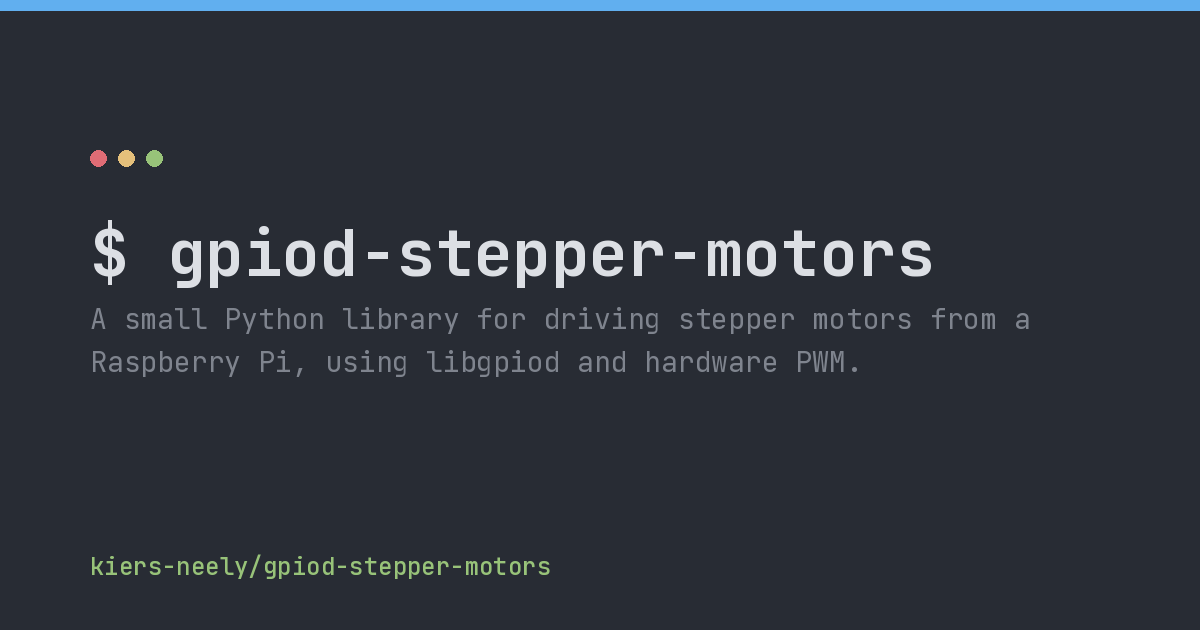
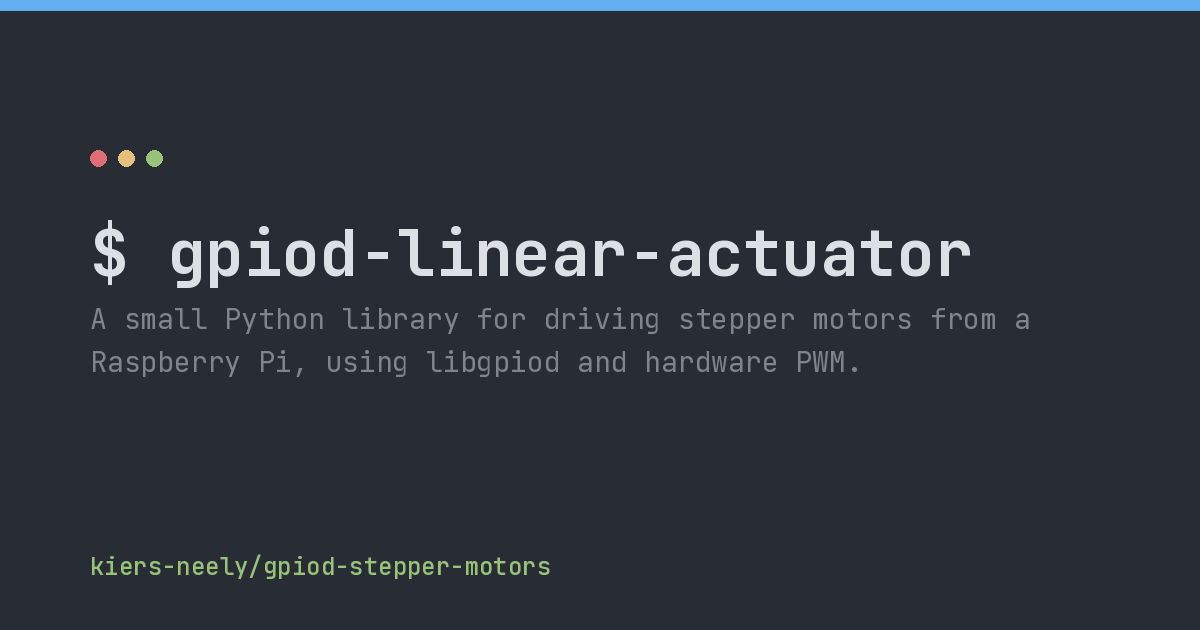
rename project to gpiod-linear-actuator
Renames the distribution name (pyproject.toml), the importable package
(src/gpiod_stepper_motors -> src/gpiod_linear_actuator), and every
import/reference across tests, examples, scripts, docs, and the docs
workflow. Regenerated uv.lock and the social preview card to match.

The GitHub repo itself stays at kiers-neely/gpiod-stepper-motors for
now (not renamed), so the docs site URL and social-preview OG image
URL still point there intentionally.

Changed region(s): [[0.3083, 0.3619, 0.8325, 0.4524]]

diff --git a/tests/test_stepper.py b/tests/test_stepper.py
@@ -9,9 +9,9 @@ from gpiod.line import Direction as LineDirection
 from gpiod.line import Value
 from pydantic import ValidationError
 
-from gpiod_stepper_motors.protocol import GPIOValue, InputLabel, OutputLabel
-from gpiod_stepper_motors.pwm import HardwarePWM, PWMConfig, PWMRampConfig
-from gpiod_stepper_motors.stepper import (
+from gpiod_linear_actuator.protocol import GPIOValue, InputLabel, OutputLabel
+from gpiod_linear_actuator.pwm import HardwarePWM, PWMConfig, PWMRampConfig
+from gpiod_linear_actuator.stepper import (
     GPIOConfig,
     GPIOStepperDriver,
     InputLine,
@@ -39,7 +39,7 @@ class StepperMotorTests(unittest.TestCase):
         self.addCleanup(self.request_patcher.stop)
         self.request = self.request_lines.return_value
 
-    def make_request(self, chip="/dev/gpiochip0", consumer="gpiod-stepper-motors"):
+    def make_request(self, chip="/dev/gpiochip0", consumer="gpiod-linear-actuator"):
         config: dict[Iterable[int | str] | int | str, gpiod.LineSettings | None] = {
             self.STEP_PIN: gpiod.LineSettings(
                 direction=LineDirection.OUTPUT,
@@ -98,11 +98,11 @@ class PWMRampConfigTests(unittest.TestCase):
 
 class HardwarePWMTests(unittest.TestCase):
     def setUp(self):
-        self.pwm_patcher = patch("gpiod_stepper_motors.pwm.PWM")
+        self.pwm_patcher = patch("gpiod_linear_actuator.pwm.PWM")
         self.pwm_cls = self.pwm_patcher.start()
         self.addCleanup(self.pwm_patcher.stop)
         self.pwm = self.pwm_cls.return_value
-        self.sleep_patcher = patch("gpiod_stepper_motors.pwm.time.sleep")
+        self.sleep_patcher = patch("gpiod_linear_actuator.pwm.time.sleep")
         self.sleep = self.sleep_patcher.start()
         self.addCleanup(self.sleep_patcher.stop)
 
@@ -325,7 +325,7 @@ class HardwarePWMTests(unittest.TestCase):
 
 class GPIODeviceTests(unittest.TestCase):
     def setUp(self):
-        self.chip_patcher = patch("gpiod_stepper_motors.stepper.Chip")
+        self.chip_patcher = patch("gpiod_linear_actuator.stepper.Chip")
         self.chip_cls = self.chip_patcher.start()
         self.addCleanup(self.chip_patcher.stop)
         self.chip = self.chip_cls.return_value.__enter__.return_value
@@ -447,7 +447,7 @@ class GPIODeviceTests(unittest.TestCase):
 
 class GPIODeviceEdgeReaderTests(unittest.TestCase):
     def setUp(self):
-        self.chip_patcher = patch("gpiod_stepper_motors.stepper.Chip")
+        self.chip_patcher = patch("gpiod_linear_actuator.stepper.Chip")
         self.chip_cls = self.chip_patcher.start()
         self.addCleanup(self.chip_patcher.stop)
         self.chip = self.chip_cls.return_value.__enter__.return_value
@@ -573,7 +573,7 @@ class GPIODeviceEdgeReaderTests(unittest.TestCase):
 
 class GPIOStepperTests(unittest.TestCase):
     def setUp(self):
-        self.pwm_patcher = patch("gpiod_stepper_motors.pwm.PWM")
+        self.pwm_patcher = patch("gpiod_linear_actuator.pwm.PWM")
         self.pwm_patcher.start()
         self.addCleanup(self.pwm_patcher.stop)
 
@@ -599,10 +599,10 @@ class GPIOStepperTests(unittest.TestCase):
 
 class LinearActuatorControlTests(unittest.IsolatedAsyncioTestCase):
     def setUp(self):
-        self.pwm_patcher = patch("gpiod_stepper_motors.pwm.PWM")
+        self.pwm_patcher = patch("gpiod_linear_actuator.pwm.PWM")
         self.pwm_cls = self.pwm_patcher.start()
         self.addCleanup(self.pwm_patcher.stop)
-        self.sleep_patcher = patch("gpiod_stepper_motors.pwm.time.sleep")
+        self.sleep_patcher = patch("gpiod_linear_actuator.pwm.time.sleep")
         self.sleep_patcher.start()
         self.addCleanup(self.sleep_patcher.stop)
 

diff --git a/examples/linear_actuator_demo.py b/examples/linear_actuator_demo.py
@@ -2,13 +2,13 @@ import asyncio
 from unittest.mock import MagicMock, patch
 
 from gpiod.line import Value
-from gpiod_stepper_motors import load_gpio_config
-from gpiod_stepper_motors.protocol import InputLabel
-from gpiod_stepper_motors.stepper import LinearActuatorControl, LinearActuatorState
+from gpiod_linear_actuator import load_gpio_config
+from gpiod_linear_actuator.protocol import InputLabel
+from gpiod_linear_actuator.stepper import LinearActuatorControl, LinearActuatorState
 
 
 async def main():
-    with patch("gpiod_stepper_motors.pwm.PWM"):  # no real PWM hardware needed
+    with patch("gpiod_linear_actuator.pwm.PWM"):  # no real PWM hardware needed
         config = load_gpio_config("examples/gpio_config.yaml")
 
         fake_gpio = MagicMock()

diff --git a/scripts/plot_ramp.py b/scripts/plot_ramp.py
@@ -12,7 +12,7 @@ import argparse
 import time
 from unittest.mock import patch
 
-from gpiod_stepper_motors.pwm import HardwarePWM, PWMConfig, PWMRampConfig
+from gpiod_linear_actuator.pwm import HardwarePWM, PWMConfig, PWMRampConfig
 
 
 def record_ramp(
@@ -21,7 +21,7 @@ def record_ramp(
     """Run a sequence of (target_hz, duration_s) ramps back-to-back and record (time, hz) samples."""
     samples: list[tuple[float, float]] = []
 
-    with patch("gpiod_stepper_motors.pwm.PWM"):
+    with patch("gpiod_linear_actuator.pwm.PWM"):
         config = PWMConfig(label="plot", offset=1, frequency_hz=start_hz)
         pwm = HardwarePWM(config)
 

diff --git a/tests/test_config.py b/tests/test_config.py
@@ -4,14 +4,14 @@ from pathlib import Path
 
 from pydantic import ValidationError
 
-from gpiod_stepper_motors.config import (
+from gpiod_linear_actuator.config import (
     load_gpio_config,
     load_pwm_config,
     load_pwm_ramp_config,
     load_yaml_config,
 )
-from gpiod_stepper_motors.pwm import PWMConfig, PWMRampConfig
-from gpiod_stepper_motors.stepper import GPIOConfig, InputLine, OutputLine
+from gpiod_linear_actuator.pwm import PWMConfig, PWMRampConfig
+from gpiod_linear_actuator.stepper import GPIOConfig, InputLine, OutputLine
 
 EXAMPLES_DIR = Path(__file__).resolve().parent.parent / "examples"
 

diff --git a/src/gpiod_linear_actuator/stepper.py b/src/gpiod_linear_actuator/stepper.py
@@ -134,7 +134,7 @@ class GPIOConfig(BaseModel):
     inputs) with the PWM channel that drives STEP. Consumed by
     `LinearActuatorControl`; `chip_path` and `pin_mapping` are also what
     `GPIOStepperDriver` is built from when no backend is injected. Can be
-    loaded from YAML via `gpiod_stepper_motors.load_gpio_config`.
+    loaded from YAML via `gpiod_linear_actuator.load_gpio_config`.
 
     Attributes:
         name: A human-readable identifier for this axis/motor, used in logs.

diff --git a/scripts/generate_social_preview.py b/scripts/generate_social_preview.py
@@ -16,12 +16,12 @@ TITLE_COLOR = "#dcdfe4"
 MUTED = "#7f848e"
 GREEN = "#98c379"
 
-TITLE = "gpiod-stepper-motors"
+TITLE = "gpiod-linear-actuator"
 DESCRIPTION = (
     "A small Python library for driving stepper motors from a\n"
     "Raspberry Pi, using libgpiod and hardware PWM."
 )
-FOOTER = "kiers-neely/gpiod-stepper-motors"
+FOOTER = "kiers-neely/gpiod-linear-actuator"
 
 
 def load_font(path: str, size: int, weight: float) -> ImageFont.FreeTypeFont:

diff --git a/src/gpiod_linear_actuator/config.py b/src/gpiod_linear_actuator/config.py
@@ -4,8 +4,8 @@ from typing import TypeVar
 import yaml
 from pydantic import BaseModel
 
-from gpiod_stepper_motors.pwm import PWMConfig, PWMRampConfig
-from gpiod_stepper_motors.stepper import GPIOConfig
+from gpiod_linear_actuator.pwm import PWMConfig, PWMRampConfig
+from gpiod_linear_actuator.stepper import GPIOConfig
 
 ConfigT = TypeVar("ConfigT", bound=BaseModel)
 

diff --git a/README.md b/README.md
@@ -1,4 +1,4 @@
-# gpiod-stepper-motors
+# gpiod-linear-actuator
 
 A small Python library for driving stepper motors from a Raspberry Pi, using
 the official [`gpiod`](https://pypi.org/project/gpiod/) bindings for libgpiod
@@ -92,8 +92,8 @@ This is real code for actual hardware — no mocking, nothing simulated:
 ```python
 import asyncio
 
-from gpiod_stepper_motors import load_gpio_config
-from gpiod_stepper_motors.stepper import LinearActuatorControl, LinearActuatorState
+from gpiod_linear_actuator import load_gpio_config
+from gpiod_linear_actuator.stepper import LinearActuatorControl, LinearActuatorState
 
 
 async def main():
@@ -168,8 +168,8 @@ if actuator.alarm_active:
 or raw GPIO access without the homing/fault-handling behavior above.
 
 ```python
-from gpiod_stepper_motors import HardwarePWM
-from gpiod_stepper_motors.pwm import PWMConfig, PWMRampConfig
+from gpiod_linear_actuator import HardwarePWM
+from gpiod_linear_actuator.pwm import PWMConfig, PWMRampConfig
 
 pwm = HardwarePWM(
     PWMConfig(
@@ -188,9 +188,9 @@ pwm.stop_pwm()  # stops the ramp (if still running) and disables output together
 ```
 
 ```python
-from gpiod_stepper_motors import load_gpio_config
-from gpiod_stepper_motors.stepper import GPIOStepperDriver
-from gpiod_stepper_motors.protocol import GPIOValue, InputLabel, OutputLabel
+from gpiod_linear_actuator import load_gpio_config
+from gpiod_linear_actuator.stepper import GPIOStepperDriver
+from gpiod_linear_actuator.protocol import GPIOValue, InputLabel, OutputLabel
 
 config = load_gpio_config("examples/gpio_config.yaml")
 device = GPIOStepperDriver(chip_path=config.chip_path, pin_mapping=config.pin_mapping)
@@ -255,13 +255,13 @@ import asyncio
 from unittest.mock import MagicMock, patch
 
 from gpiod.line import Value
-from gpiod_stepper_motors import load_gpio_config
-from gpiod_stepper_motors.protocol import InputLabel
-from gpiod_stepper_motors.stepper import LinearActuatorControl, LinearActuatorState
+from gpiod_linear_actuator import load_gpio_config
+from gpiod_linear_actuator.protocol import InputLabel
+from gpiod_linear_actuator.stepper import LinearActuatorControl, LinearActuatorState
 
 
 async def main():
-    with patch("gpiod_stepper_motors.pwm.PWM"):  # no real PWM hardware needed
+    with patch("gpiod_linear_actuator.pwm.PWM"):  # no real PWM hardware needed
         config = load_gpio_config("examples/gpio_config.yaml")
 
         fake_gpio = MagicMock()
